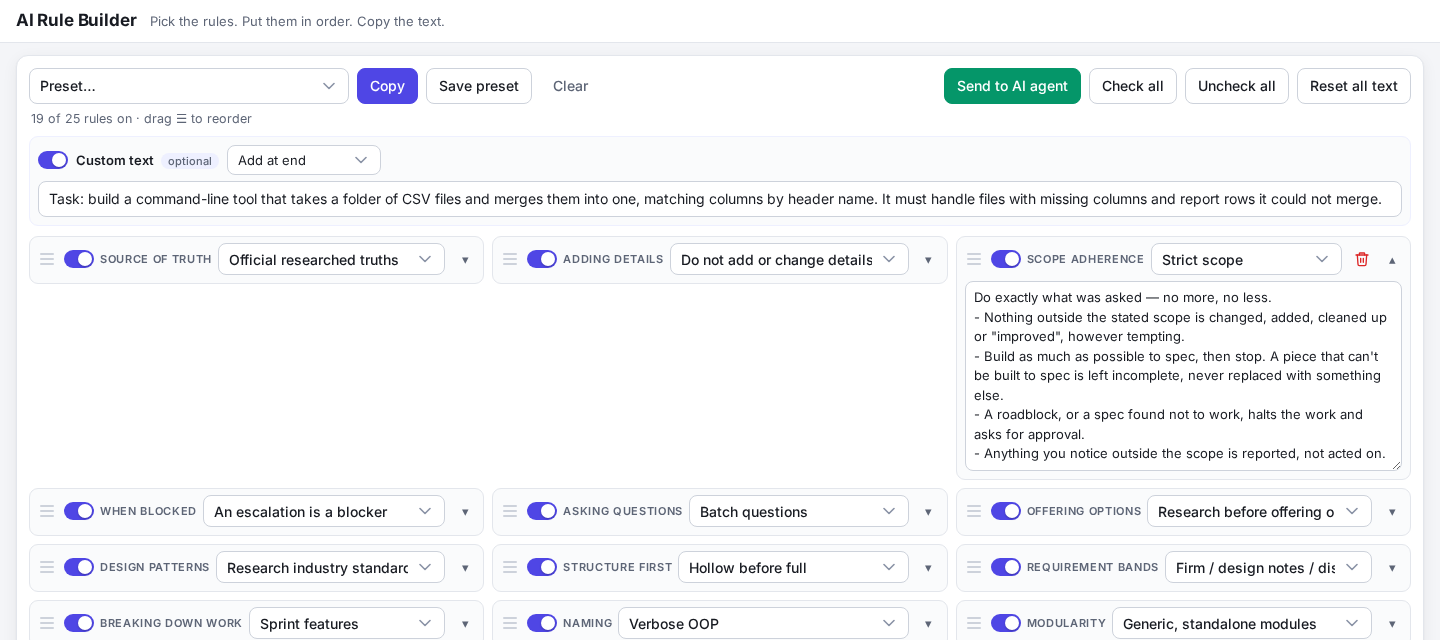
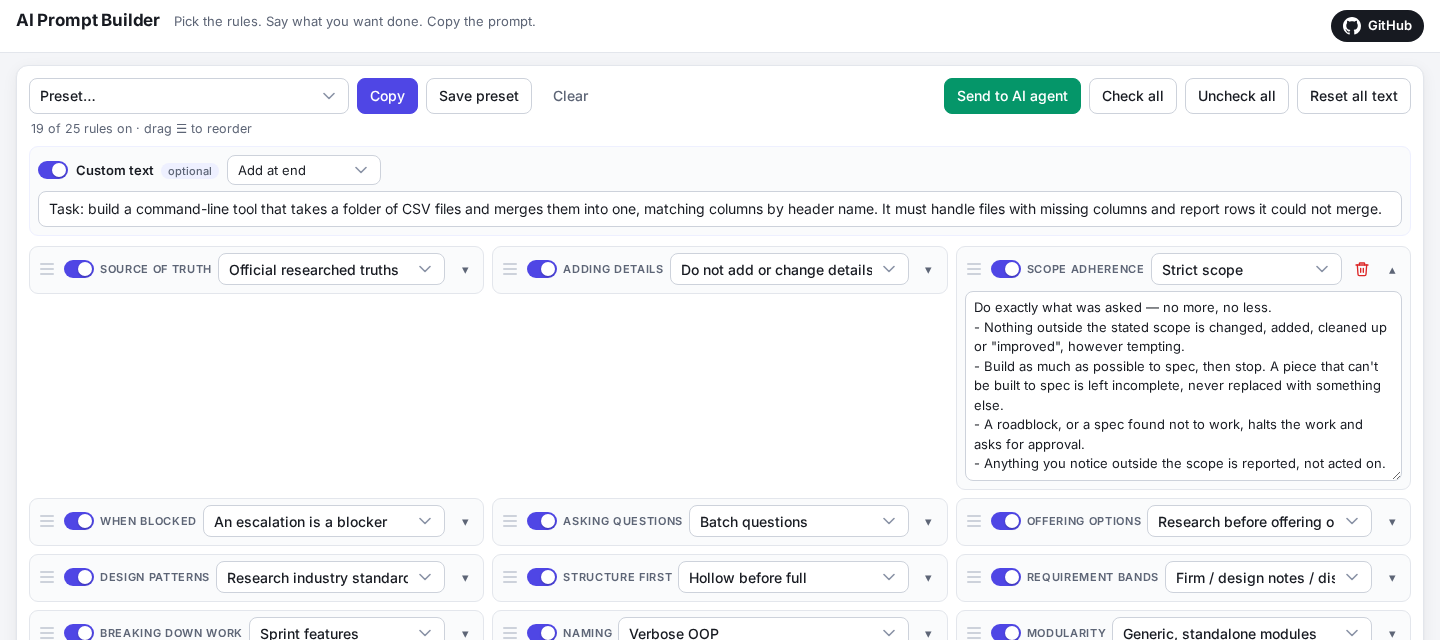
Renamed to AI Prompt Builder: title, repository, package (ai_prompt_builder), skill, user folder and file format names; screenshots retaken

diff --git a/index.html b/index.html
@@ -3,8 +3,8 @@
 <head>
   <meta charset="utf-8">
   <meta name="viewport" content="width=device-width, initial-scale=1">
-  <title>AI Rule Builder</title>
-  <meta name="description" content="Pick the rules an agent works by, put them in order, copy the text.">
+  <title>AI Prompt Builder</title>
+  <meta name="description" content="Build a prompt for an AI agent: pick the rules it works by, say what you want done, copy the text.">
   <link rel="preconnect" href="https://fonts.googleapis.com">
   <link rel="preconnect" href="https://fonts.gstatic.com" crossorigin>
   <link href="https://fonts.googleapis.com/css2?family=Inter:wght@400;500;600;700&family=JetBrains+Mono:wght@400;500&display=swap" rel="stylesheet">
@@ -14,9 +14,9 @@
 <body>
   <header class="site-header">
     <div class="site-header-inner">
-      <h1>AI Rule Builder</h1>
-      <p class="tagline">Pick the rules. Put them in order. Copy the text.</p>
-      <a class="github-link" href="https://github.com/RandyHaylor/ai-rule-builder" target="_blank" rel="noopener"
+      <h1>AI Prompt Builder</h1>
+      <p class="tagline">Pick the rules. Say what you want done. Copy the prompt.</p>
+      <a class="github-link" href="https://github.com/RandyHaylor/ai-prompt-builder" target="_blank" rel="noopener"
          title="View the source, the command-line tool and the agent skill on GitHub">
         <svg viewBox="0 0 16 16" width="18" height="18" aria-hidden="true" fill="currentColor">
           <path d="M8 0C3.58 0 0 3.58 0 8c0 3.54 2.29 6.53 5.47 7.59.4.07.55-.17.55-.38 0-.19-.01-.82-.01-1.49-2.01.37-2.53-.49-2.69-.94-.09-.23-.48-.94-.82-1.13-.28-.15-.68-.52-.01-.53.63-.01 1.08.58 1.23.82.72 1.21 1.87.87 2.33.66.07-.52.28-.87.51-1.07-1.78-.2-3.64-.89-3.64-3.95 0-.87.31-1.59.82-2.15-.08-.2-.36-1.02.08-2.12 0 0 .67-.21 2.2.82.64-.18 1.32-.27 2-.27.68 0 1.36.09 2 .27 1.53-1.04 2.2-.82 2.2-.82.44 1.1.16 1.92.08 2.12.51.56.82 1.27.82 2.15 0 3.07-1.87 3.75-3.65 3.95.29.25.54.73.54 1.48 0 1.07-.01 1.93-.01 2.2 0 .21.15.46.55.38A8.013 8.013 0 0016 8c0-4.42-3.58-8-8-8z"/>

diff --git a/js/rule-selection-state.js b/js/rule-selection-state.js
@@ -258,7 +258,7 @@ export class RuleSelectionState {
   /** The current selection as a ruleset file's content (the same shape presets use). */
   exportRuleset(name) {
     return {
-      format: "ai-rule-builder/ruleset@1",
+      format: "ai-prompt-builder/ruleset@1",
       name: name || this.selectedPresetName || "Untitled",
       entries: this.chosenEntries
         .filter((entry) => entry.optionId)

diff --git a/js/preference-stores/local-server-preference-store.js b/js/preference-stores/local-server-preference-store.js
@@ -1,7 +1,7 @@
 /**
  * A preference store that keeps the user's customizations on the computer running the
  * page's local server (started by the command-line tool), as JSON files in the user's
- * rule-builder folder. Same interface as every preference store (see
+ * prompt-builder folder. Same interface as every preference store (see
  * current-session-preference-store.js).
  */
 

diff --git a/tests/test_command_line_and_local_server.py b/tests/test_command_line_and_local_server.py
@@ -17,7 +17,7 @@ from contextlib import redirect_stdout
 REPOSITORY = pathlib.Path(__file__).resolve().parent.parent
 sys.path.insert(0, str(REPOSITORY))
 
-from ai_rule_builder.command_line import main  # noqa: E402
+from ai_prompt_builder.command_line import main  # noqa: E402
 
 
 def run(*arguments) -> str:
@@ -97,7 +97,7 @@ class LocalServerTest(unittest.TestCase):
 
     def start_server(self, *extra):
         process = subprocess.Popen(
-            [sys.executable, "-m", "ai_rule_builder", "--user-folder", str(self.user_folder),
+            [sys.executable, "-m", "ai_prompt_builder", "--user-folder", str(self.user_folder),
              "serve", "--ruleset-file", str(self.ruleset_file), *extra],
             cwd=REPOSITORY, stdout=subprocess.PIPE, text=True)
         self.addCleanup(process.wait)
@@ -117,8 +117,8 @@ class LocalServerTest(unittest.TestCase):
     def test_two_servers_run_at_once_on_different_free_ports(self):
         first, second = self.start_server(), self.start_server()
         self.assertNotEqual(first, second)
-        self.assertIn(b"AI Rule Builder", self.get(first))
-        self.assertIn(b"AI Rule Builder", self.get(second))
+        self.assertIn(b"AI Prompt Builder", self.get(first))
+        self.assertIn(b"AI Prompt Builder", self.get(second))
 
     def test_the_page_opens_the_ruleset_and_sending_is_off_unless_enabled(self):
         url = self.start_server()
@@ -132,7 +132,7 @@ class LocalServerTest(unittest.TestCase):
         url = self.start_server("--send-to-agent-file", str(self.send_file))
         self.assertTrue(json.loads(self.get(url + "api/session-settings"))["sendToAgentEnabled"])
         waiter = subprocess.Popen(
-            [sys.executable, "-m", "ai_rule_builder", "wait-for-send", str(self.send_file), "--timeout", "20"],
+            [sys.executable, "-m", "ai_prompt_builder", "wait-for-send", str(self.send_file), "--timeout", "20"],
             cwd=REPOSITORY, stdout=subprocess.PIPE, text=True)
         time.sleep(1)
         ruleset = json.loads(self.ruleset_file.read_text())
@@ -159,7 +159,7 @@ class LocalServerTest(unittest.TestCase):
     def test_only_the_pages_own_files_are_served(self):
         url = self.start_server()
         with self.assertRaises(urllib.error.HTTPError):
-            self.get(url + "ai_rule_builder/rule_catalog.py")
+            self.get(url + "ai_prompt_builder/rule_catalog.py")
 
 
 if __name__ == "__main__":

diff --git a/ai_prompt_builder/rule_catalog.py b/ai_prompt_builder/rule_catalog.py
@@ -1,12 +1,12 @@
 """The rule catalog: the shipped categories and presets (the shared JSON files in data/,
 also read by the web page) plus the user's own categories, options and presets, kept as
-JSON files in the user's rule-builder folder.
+JSON files in the user's prompt-builder folder.
 
 The user's folder is, in order of preference:
-  1. the folder named by the AI_RULE_BUILDER_HOME environment variable;
-  2. a `.ai-rule-builder` folder in the current working directory, if it exists
+  1. the folder named by the AI_PROMPT_BUILDER_HOME environment variable;
+  2. a `.ai-prompt-builder` folder in the current working directory, if it exists
      (a team can keep its presets in its project this way);
-  3. `~/.ai-rule-builder`.
+  3. `~/.ai-prompt-builder`.
 
 Inside it:
   customizations.json   {"customCategories": [...], "customOptions": [...]}
@@ -23,17 +23,17 @@ from pathlib import Path
 
 REPOSITORY_FOLDER = Path(__file__).resolve().parent.parent
 SHIPPED_DATA_FOLDER = REPOSITORY_FOLDER / "data"
-RULESET_FORMAT = "ai-rule-builder/ruleset@1"
+RULESET_FORMAT = "ai-prompt-builder/ruleset@1"
 
 
 def resolve_user_rule_builder_folder() -> Path:
-    from_environment = os.environ.get("AI_RULE_BUILDER_HOME")
+    from_environment = os.environ.get("AI_PROMPT_BUILDER_HOME")
     if from_environment:
         return Path(from_environment).expanduser()
-    in_current_project = Path.cwd() / ".ai-rule-builder"
+    in_current_project = Path.cwd() / ".ai-prompt-builder"
     if in_current_project.is_dir():
         return in_current_project
-    return Path.home() / ".ai-rule-builder"
+    return Path.home() / ".ai-prompt-builder"
 
 
 def file_name_for(name: str) -> str:

diff --git a/ai_prompt_builder/command_line.py b/ai_prompt_builder/command_line.py
@@ -1,9 +1,9 @@
-"""The command-line version of the rule-builder page. Everything the page does — pick a
+"""The command-line version of the prompt-builder page. Everything the page does — pick a
 preset, switch rules on and off, choose options, edit text, reorder, add custom text,
 add your own options, categories and presets, and produce the text to paste — is a
 command here, working on a ruleset JSON file. `serve` opens the page itself.
 
-Run `python -m ai_rule_builder --help` from the repository folder for the command list.
+Run `python -m ai_prompt_builder --help` from the repository folder for the command list.
 """
 
 from __future__ import annotations
@@ -252,8 +252,8 @@ def command_wait_for_send(catalog: RuleCatalog, arguments) -> None:
 
 def build_argument_parser() -> argparse.ArgumentParser:
     parser = argparse.ArgumentParser(
-        prog="ai_rule_builder",
-        description="Build the rules you give an AI agent: the command-line version of the rule-builder page.")
+        prog="ai_prompt_builder",
+        description="Build the rules you give an AI agent: the command-line version of the prompt-builder page.")
     parser.add_argument("--user-folder", help="the folder for your own options, categories and presets")
     commands = parser.add_subparsers(dest="command", required=True)
 

diff --git a/ai_prompt_builder/local_web_server.py b/ai_prompt_builder/local_web_server.py
@@ -1,11 +1,11 @@
-"""A local web server for one person's session: serves the rule-builder page and a small
+"""A local web server for one person's session: serves the prompt-builder page and a small
 API, bound to this computer only (127.0.0.1), on a free port the operating system picks,
 so any number can run at once (one per agent session).
 
 API (all JSON):
   GET  /api/session-settings   {sendToAgentEnabled, storeFolder, openedRuleset}
   GET  /api/customizations     the user's own categories, options and presets
-  PUT  /api/customizations     replace them (saved to the user's rule-builder folder)
+  PUT  /api/customizations     replace them (saved to the user's prompt-builder folder)
   POST /api/send-to-agent      {ruleset, composedText} -> written to the send file
 """
 

diff --git a/ai_prompt_builder/ruleset.py b/ai_prompt_builder/ruleset.py
@@ -2,7 +2,7 @@
 rulesets and share one file shape:
 
 {
-  "format": "ai-rule-builder/ruleset@1",
+  "format": "ai-prompt-builder/ruleset@1",
   "name": "...",
   "entries": [                                    # in order
     {"categoryId": "...", "optionId": "...", "enabled": true, "editedText": null}

diff --git a/ai_prompt_builder/__init__.py b/ai_prompt_builder/__init__.py
@@ -1,0 +1,2 @@
+"""Build the rules you give an AI agent: the command-line version of the prompt-builder page,
+and a local server for the page itself. Standard library only."""

diff --git a/README.md b/README.md
@@ -1,16 +1,16 @@
 <div align="center">
 
-# AI Rule Builder
+# AI Prompt Builder
 
-**Pick the rules your AI agent works by. Put them in order. Copy the text.**
+**Build the prompt for your AI agent: pick the rules it works by, say what you want done, copy the text.**
 
-[**Open the web tool →**](https://randyhaylor.github.io/ai-rule-builder/)
+[**Open the web tool →**](https://randyhaylor.github.io/ai-prompt-builder/)
 
 Web page · command-line tool · agent skill — one set of rules, one file format
 
 </div>
 
-![The rule builder with the Careful developer preset](docs/overview.png)
+![The prompt builder with the Careful developer preset](docs/overview.png)
 
 ---
 
@@ -57,7 +57,7 @@ Run it through the command-line tool and they're saved as JSON files on your
 computer — see below.
 
 </td>
-<td width="38%"><img src="docs/phone.png" alt="The rule builder on a phone" width="100%"></td>
+<td width="38%"><img src="docs/phone.png" alt="The prompt builder on a phone" width="100%"></td>
 </tr></table>
 
 ---
@@ -72,30 +72,30 @@ rules one at a time, or opens the web page for them, and gets the finished rules
 point your agent at [`SKILL.md`](SKILL.md). Python 3.9+, standard library only, any OS.
 
 ```bash
-git clone https://github.com/RandyHaylor/ai-rule-builder.git
-cd ai-rule-builder
-python -m ai_rule_builder presets
+git clone https://github.com/RandyHaylor/ai-prompt-builder.git
+cd ai-prompt-builder
+python -m ai_prompt_builder presets
 ```
 
 ### The command line is the page, as commands
 
 ```bash
-python -m ai_rule_builder new mine.json --preset "Careful developer"
-python -m ai_rule_builder set mine.json testing --option simple-post-testing
-python -m ai_rule_builder set mine.json prs --off
-python -m ai_rule_builder custom-text mine.json --text "Add CSV export to the reports page."
-python -m ai_rule_builder compose mine.json            # the text to paste
-python -m ai_rule_builder save-preset mine.json "My reviews"
+python -m ai_prompt_builder new mine.json --preset "Careful developer"
+python -m ai_prompt_builder set mine.json testing --option simple-post-testing
+python -m ai_prompt_builder set mine.json prs --off
+python -m ai_prompt_builder custom-text mine.json --text "Add CSV export to the reports page."
+python -m ai_prompt_builder compose mine.json            # the text to paste
+python -m ai_prompt_builder save-preset mine.json "My reviews"
 ```
 
-Run `python -m ai_rule_builder --help` for every command: browsing rules and options,
+Run `python -m ai_prompt_builder --help` for every command: browsing rules and options,
 reordering, editing text, adding your own options and categories, and more.
 
 ### Opening the page from an agent, with "Send to AI agent"
 
 ```bash
-python -m ai_rule_builder serve --ruleset-file mine.json --send-to-agent-file /tmp/sent.json
-python -m ai_rule_builder wait-for-send /tmp/sent.json      # in the background
+python -m ai_prompt_builder serve --ruleset-file mine.json --send-to-agent-file /tmp/sent.json
+python -m ai_prompt_builder wait-for-send /tmp/sent.json      # in the background
 ```
 
 - `serve` prints one line of JSON with the page's address, then keeps running.
@@ -110,7 +110,7 @@ python -m ai_rule_builder wait-for-send /tmp/sent.json      # in the background
 | What | Where |
 |---|---|
 | Shipped rules and presets | [`data/`](data) — read by the page and the tool alike |
-| Your options and presets | `~/.ai-rule-builder/` — or `.ai-rule-builder/` in your project, to share with a team |
+| Your options and presets | `~/.ai-prompt-builder/` — or `.ai-prompt-builder/` in your project, to share with a team |
 | A ruleset | any JSON file you name — [the format is in SKILL.md](SKILL.md#file-format) |
 
 ### Good uses
@@ -126,7 +126,7 @@ team's shared way of working · a one-off prompt for a specific task.
 |---|---|
 | Rules and presets | `data/rule-categories.json`, `data/presets/*.json` |
 | Web page | `index.html`, `css/`, `js/` — plain HTML, CSS and JavaScript modules, no build step |
-| Command-line tool and local server | `ai_rule_builder/` — Python standard library only |
+| Command-line tool and local server | `ai_prompt_builder/` — Python standard library only |
 | Tests | `tests/` — `python -m pytest tests` or `python -m unittest discover tests` |
 
 The page reads and saves your additions through one small interface

diff --git a/SKILL.md b/SKILL.md
@@ -1,9 +1,9 @@
 ---
-name: ai-rule-builder
-description: Build the set of rules an AI agent works by (naming, testing, scope, escalation, research, response format, and more), together with the user, step by step or in a web page, and produce the text to paste into a prompt. Use when the user wants to write a prompt or ruleset for an agent, set up how an agent should work, write instructions for a deployed agent, prepare a handoff document, or mentions "rule builder", "ruleset", "agent rules" or "prompt rules".
+name: ai-prompt-builder
+description: Build a prompt for an AI agent with the user — the rules it works by (naming, testing, scope, escalation, research, response format, and more) plus what is actually to be done — step by step or in a web page, and produce the text to paste. Use when the user wants to write a prompt or ruleset for an agent, set up how an agent should work, write instructions for a deployed agent, prepare a handoff document, or mentions "prompt builder", "ruleset", "agent rules" or "prompt rules".
 ---
 
-# AI Rule Builder
+# AI Prompt Builder
 
 A ruleset is a list of rules, each with an on/off switch and one chosen option, plus
 optional **custom text** that says what is actually to be done. Presets are ready-made
@@ -14,11 +14,11 @@ rulesets. Everything is a JSON file; the tool composes the text to paste.
 Python 3.9 or newer, standard library only, any operating system. From this skill's folder:
 
 ```
-python -m ai_rule_builder <command> ...        (use python3 where python is Python 2)
+python -m ai_prompt_builder <command> ...        (use python3 where python is Python 2)
 ```
 
 From any other folder, run it with this skill's folder as the working directory, or set
-`PYTHONPATH` to it. `python -m ai_rule_builder --help` and `<command> --help` list every
+`PYTHONPATH` to it. `python -m ai_prompt_builder --help` and `<command> --help` list every
 option.
 
 | Command | What it does |
@@ -42,8 +42,8 @@ option.
 | `where` | the folder the user's own options and presets are saved in |
 
 Use `--text-file` for anything multi-line or containing quotes. The user's own options and
-presets are saved under `~/.ai-rule-builder` (or `.ai-rule-builder` in the current project
-if that folder exists, or `$AI_RULE_BUILDER_HOME`).
+presets are saved under `~/.ai-prompt-builder` (or `.ai-prompt-builder` in the current project
+if that folder exists, or `$AI_PROMPT_BUILDER_HOME`).
 
 ## Working with the user
 
@@ -69,7 +69,7 @@ or a one-off prompt for a specific task.
 ## Letting the user edit in the web page
 
 ```
-python -m ai_rule_builder serve --ruleset-file ruleset.json --send-to-agent-file /tmp/ruleset-sent.json
+python -m ai_prompt_builder serve --ruleset-file ruleset.json --send-to-agent-file /tmp/ruleset-sent.json
 ```
 
 - Run it in the background. Its **first line of output is JSON** with the `url`; give that
@@ -83,7 +83,7 @@ python -m ai_rule_builder serve --ruleset-file ruleset.json --send-to-agent-file
   exits):
 
   ```
-  python -m ai_rule_builder wait-for-send /tmp/ruleset-sent.json
+  python -m ai_prompt_builder wait-for-send /tmp/ruleset-sent.json
   ```
 
   It exits as soon as the button is clicked and prints JSON with `composedText` and the
@@ -98,7 +98,7 @@ use, so the two always agree.
 
 ```json
 {
-  "format": "ai-rule-builder/ruleset@1",
+  "format": "ai-prompt-builder/ruleset@1",
   "name": "My ruleset",
   "entries": [
     {"categoryId": "testing", "optionId": "tdd-module-level", "enabled": true, "editedText": null}
